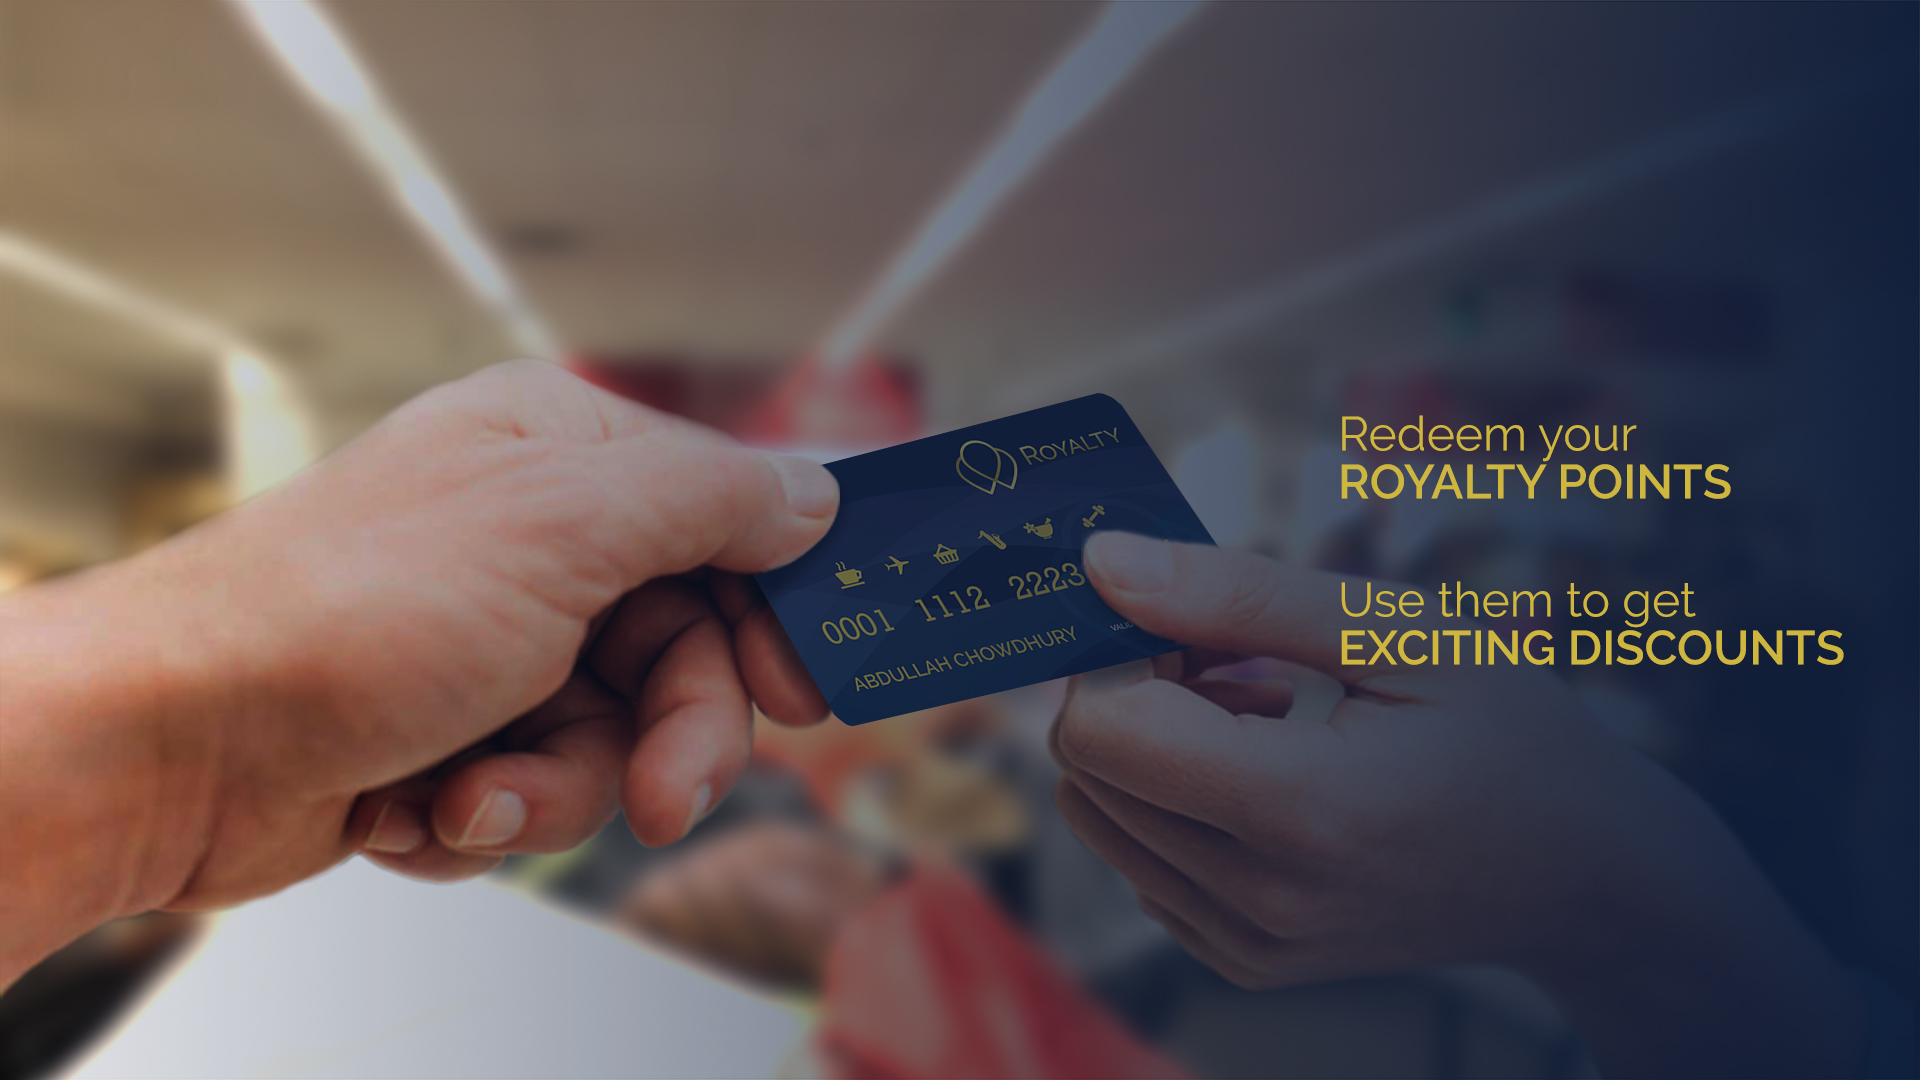
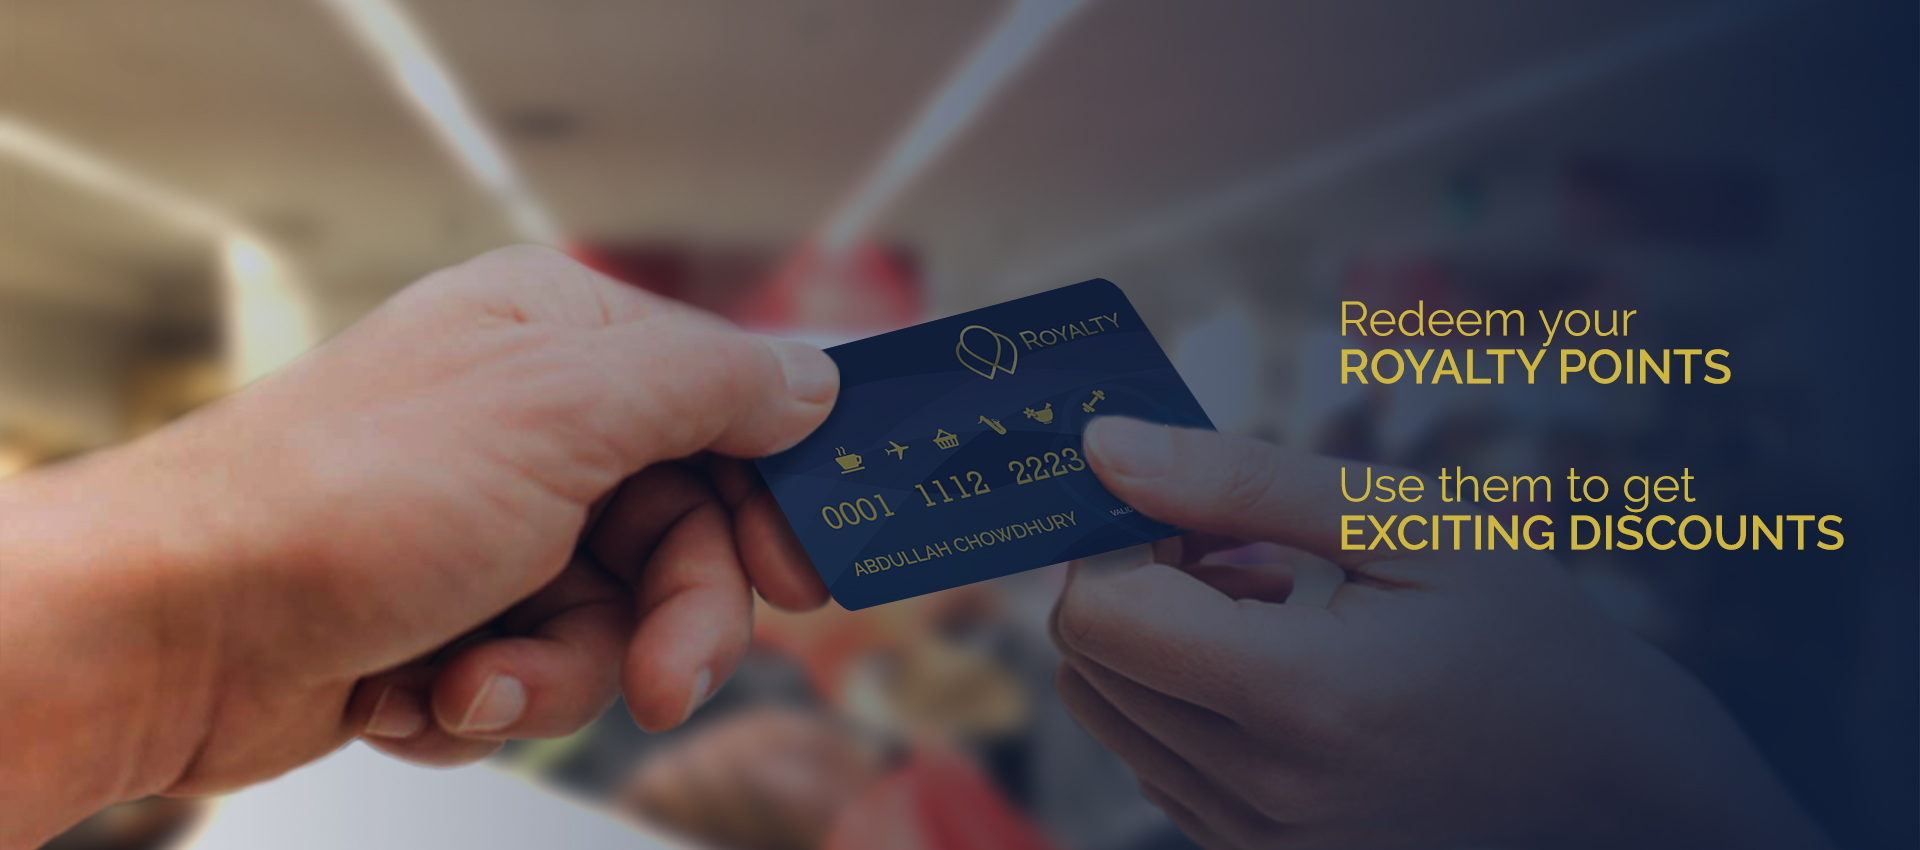
asd

diff --git a/public/js/custom.js b/public/js/custom.js
@@ -42,7 +42,7 @@ $(document).ready(function(){
 	/*	Fix Slider Height
 	/* ========================================================================= */	
 
-	var slideHeight = $(window).height()*0.95;
+	var slideHeight = $(window).height()*0.78;
 	
 	$('#slider, .carousel.slide, .carousel-inner, .carousel-inner .item').css('height',slideHeight);
 

diff --git a/routes/web.php b/routes/web.php
@@ -42,6 +42,10 @@ Route::get('faqs', function(){
 	return view('faqspage');
 });
 
+Route::get('restaurantprofile', function(){
+	return view('res-profile');
+});
+
 //admin panel
 Route::get('dashboard', function(){
 	return view('admin.index');
